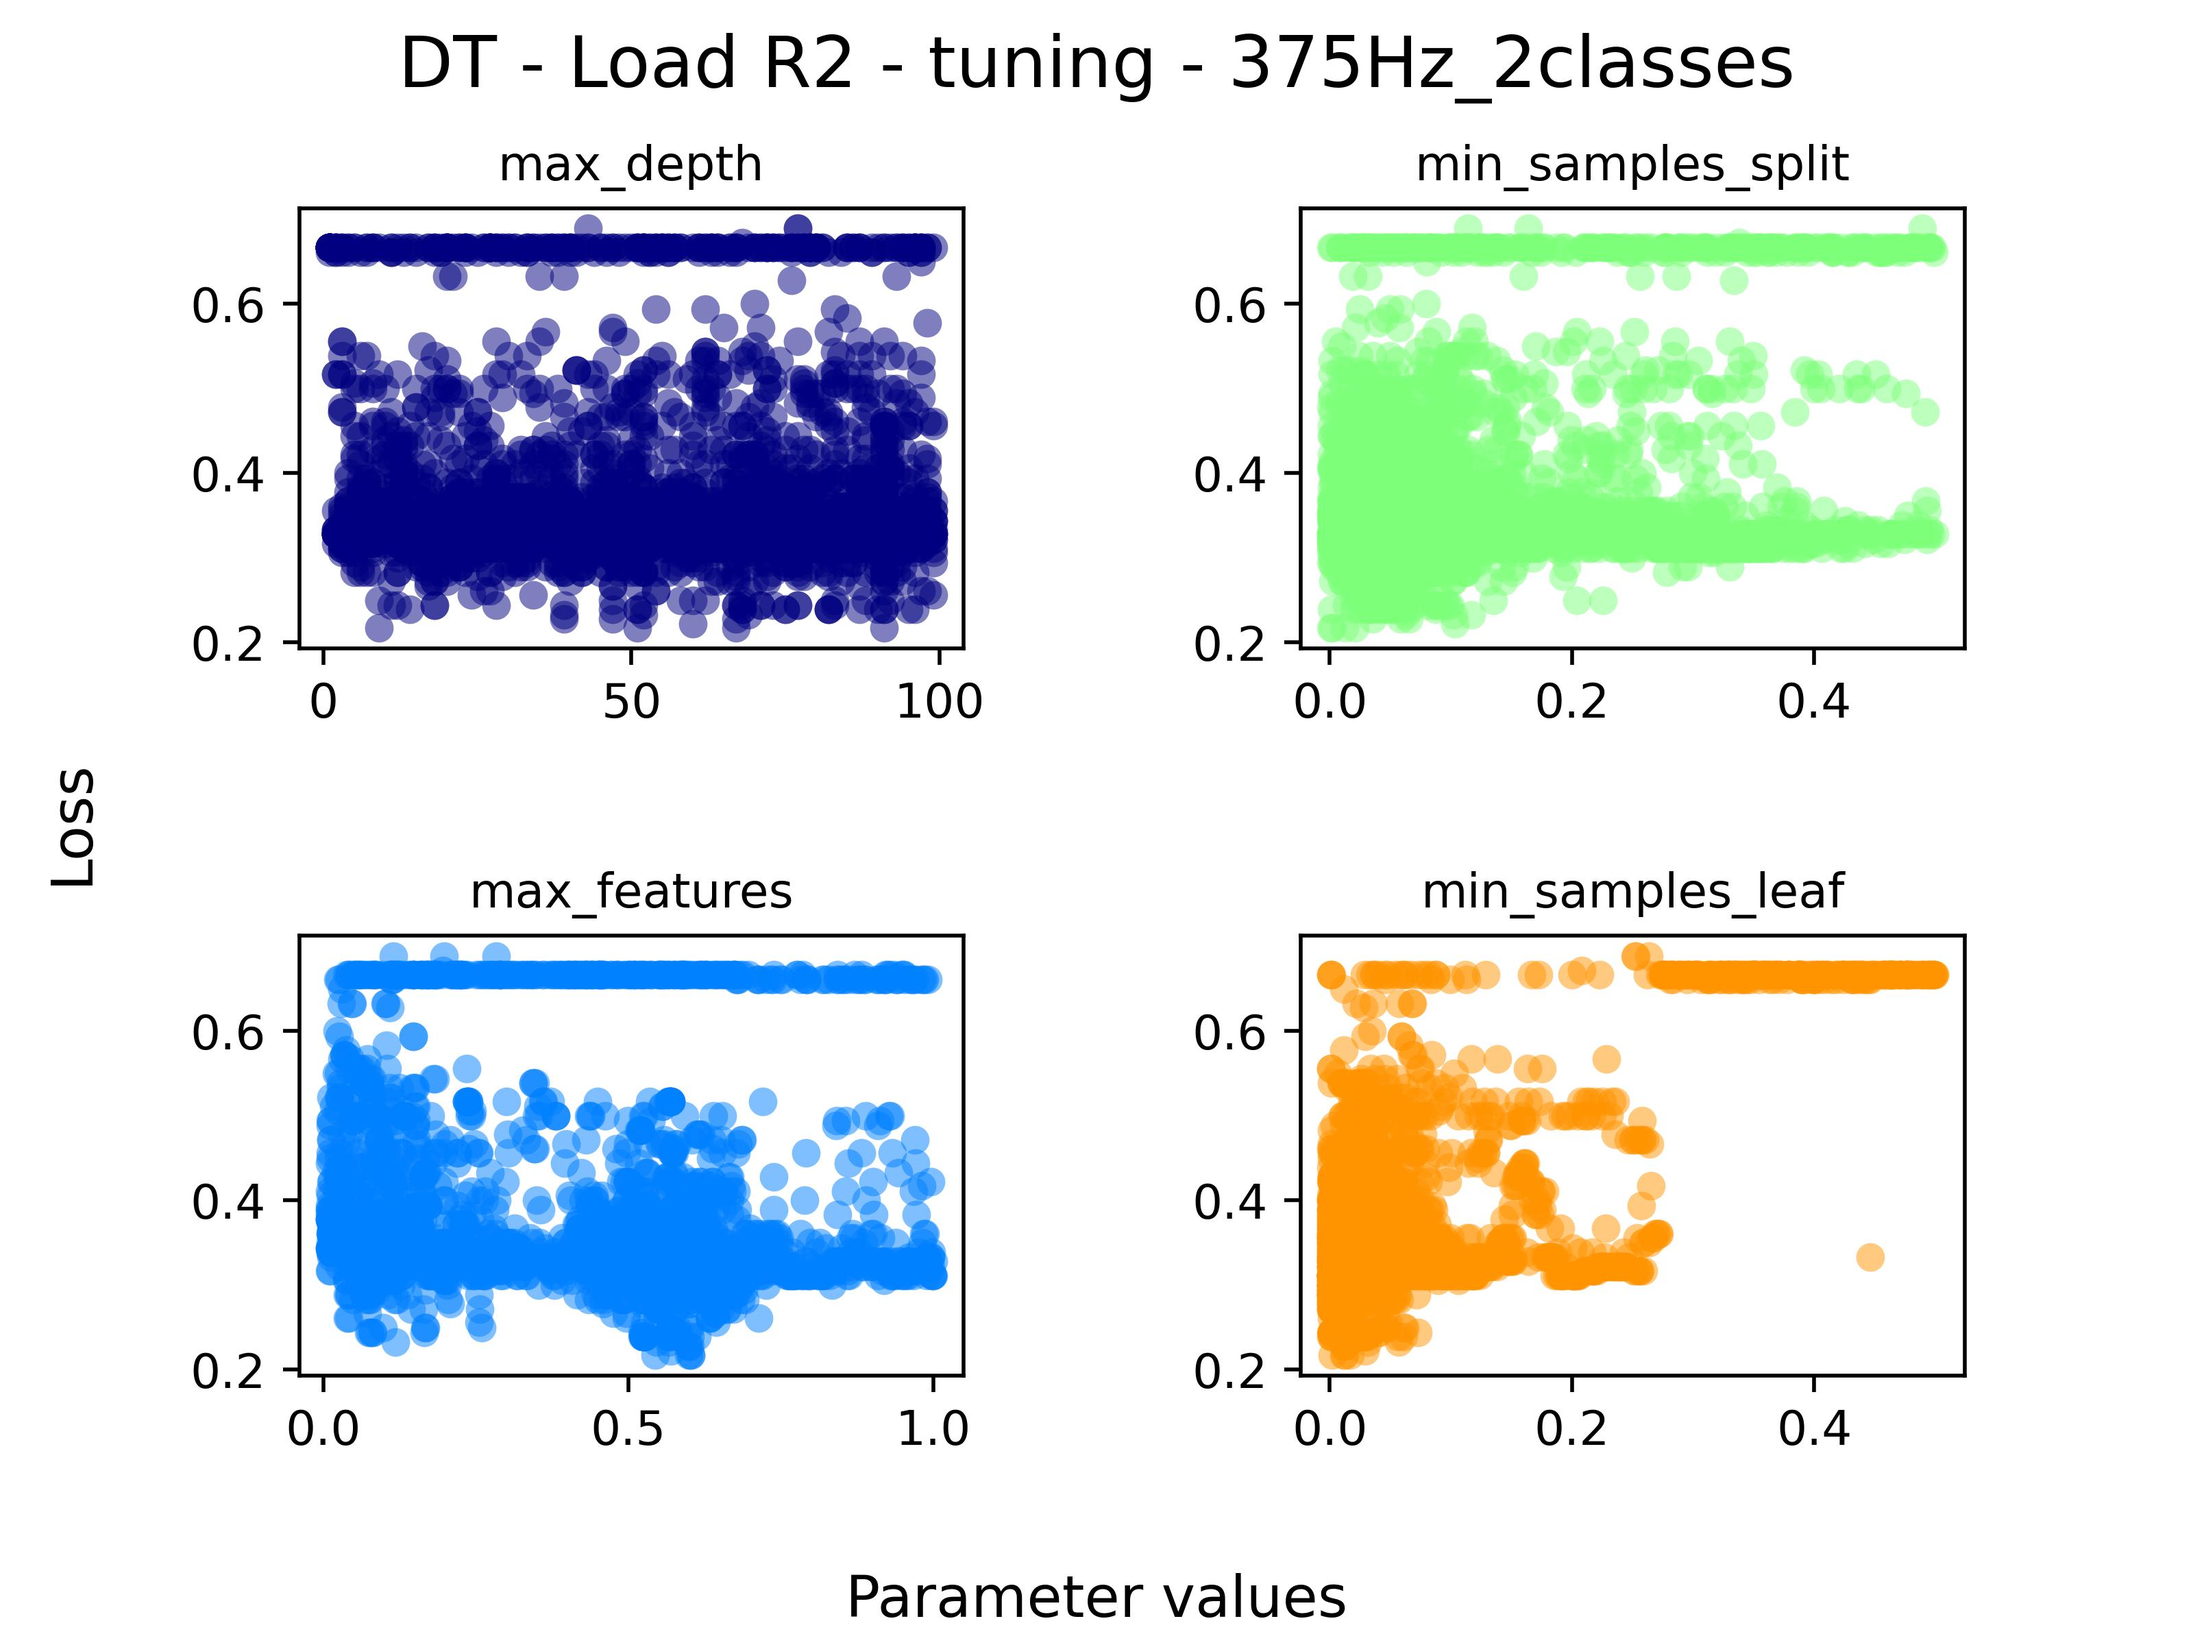
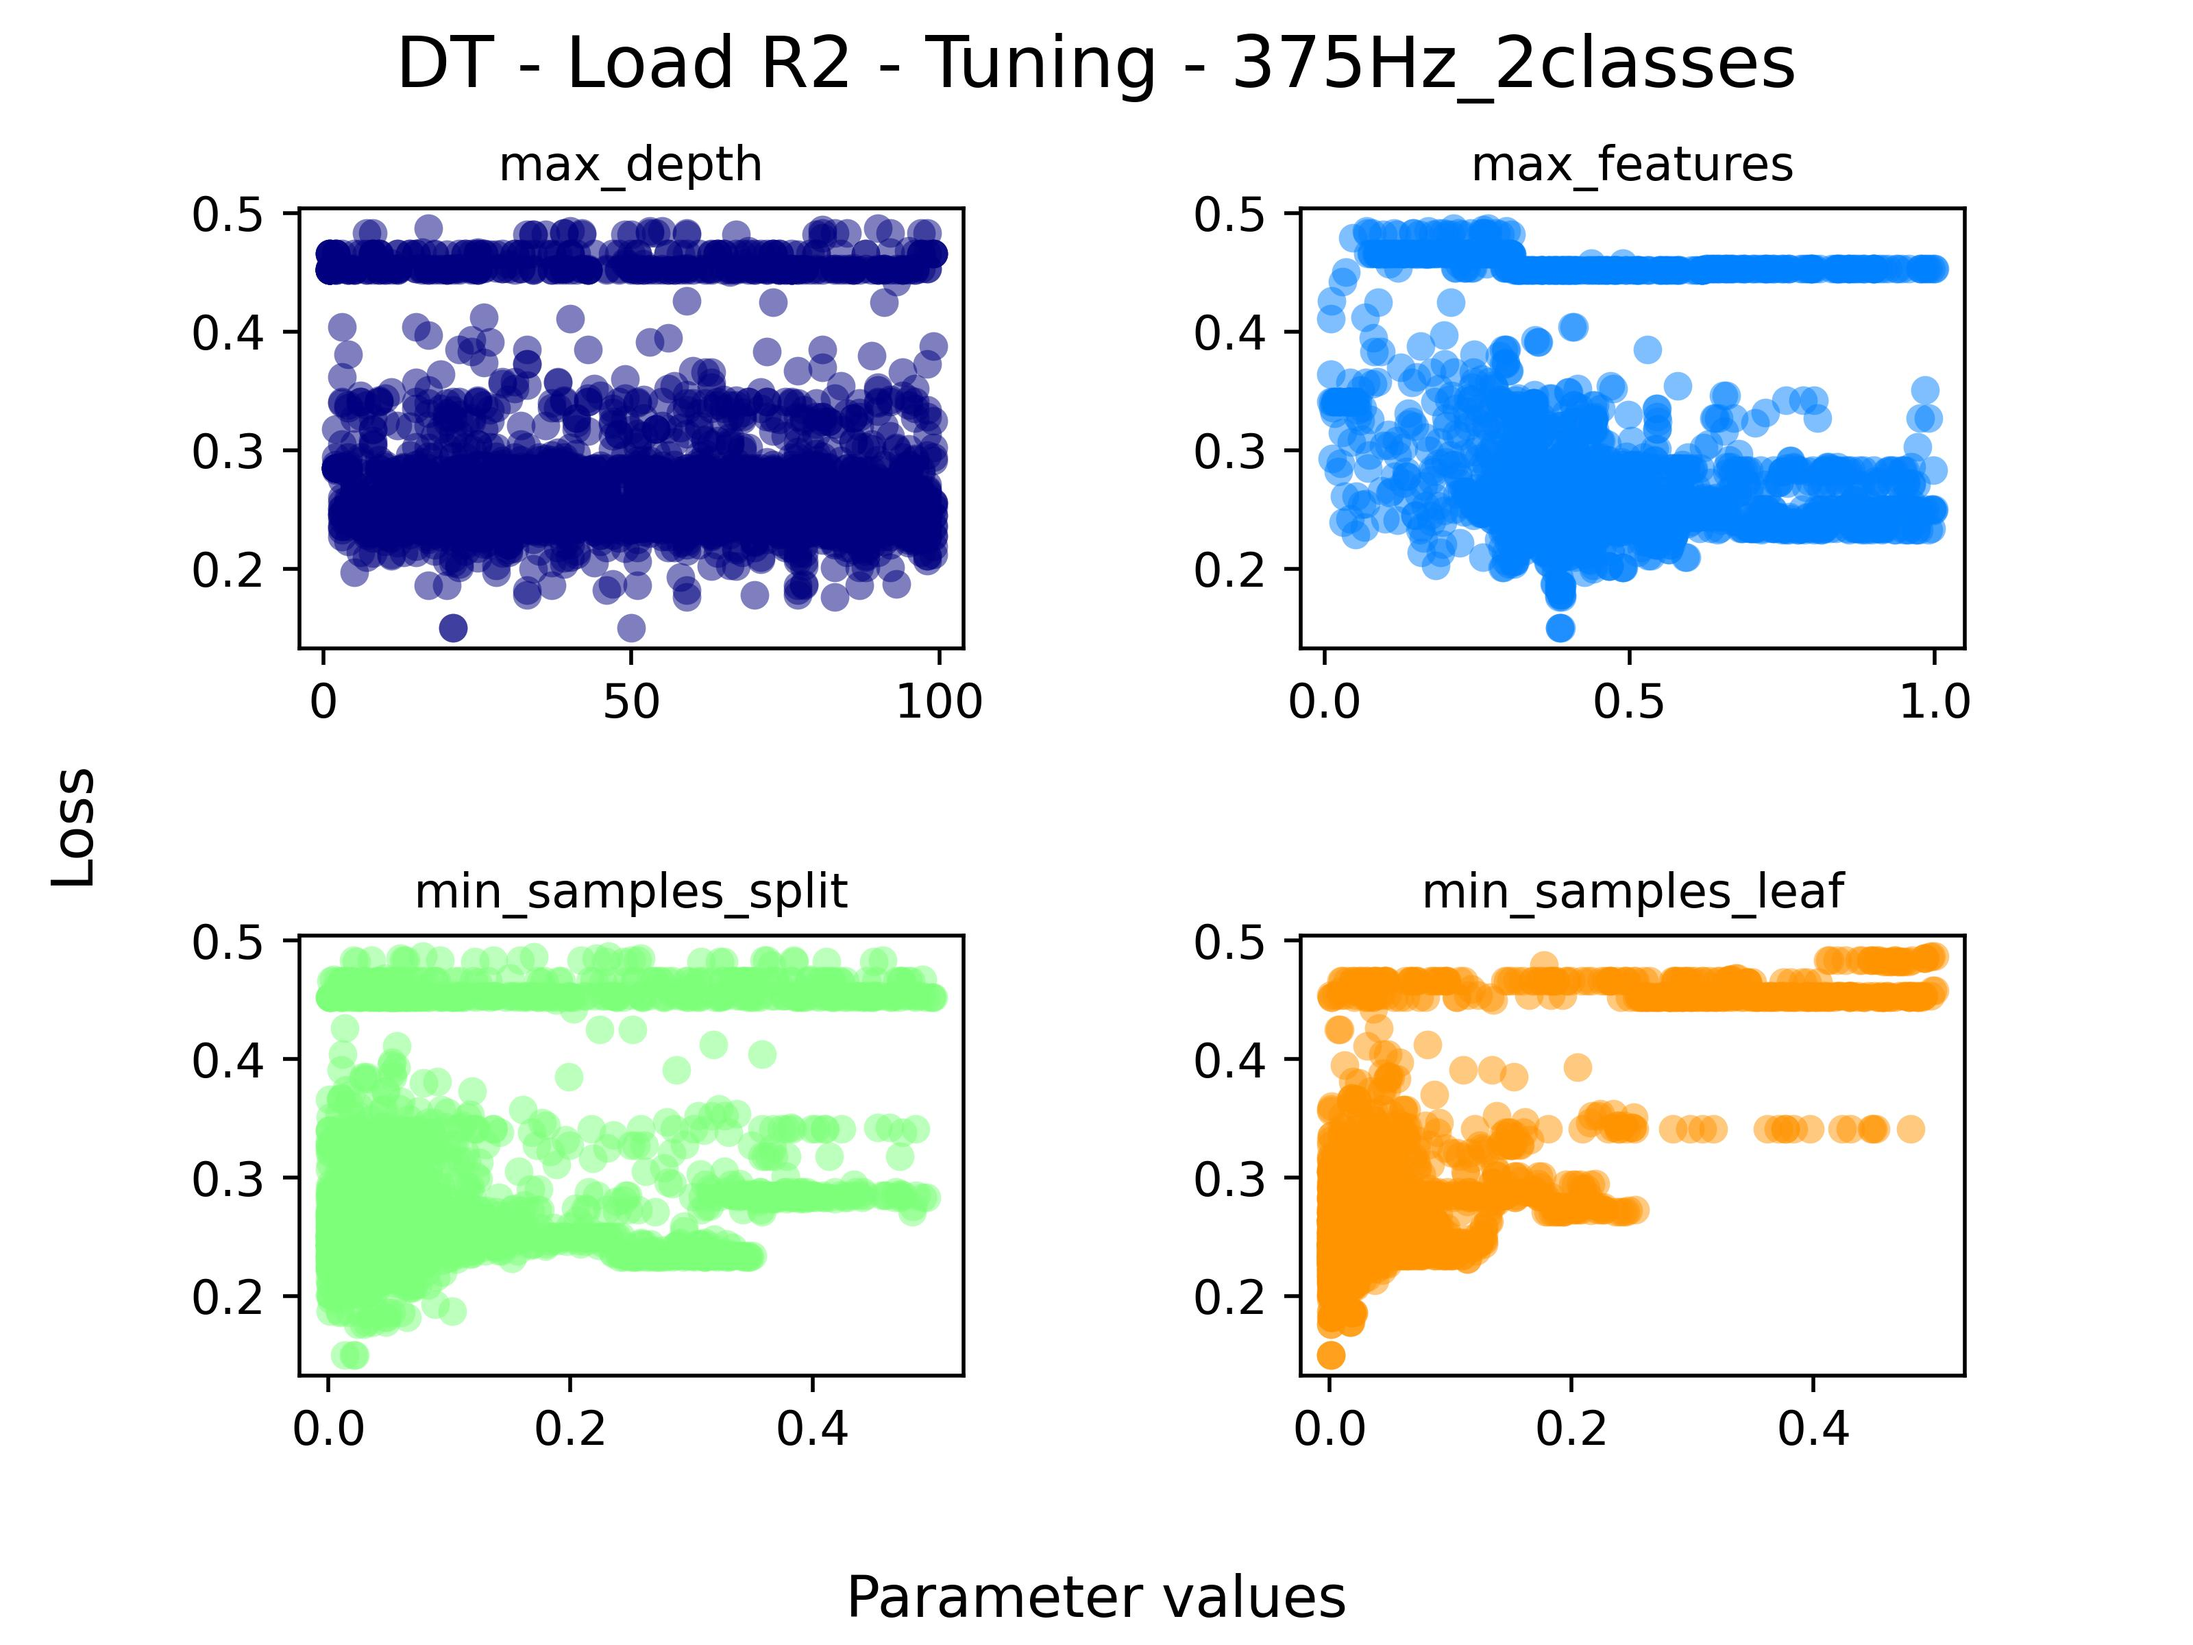
update

diff --git a/optimizers2.py b/optimizers2.py
@@ -1,0 +1,287 @@
+import glob
+import os
+import warnings
+import numpy as np
+import pandas as pd
+from hyperopt import hp, fmin, tpe, Trials, STATUS_OK
+from matplotlib import pyplot as plt
+from scipy.ndimage import gaussian_filter1d
+from sklearn import metrics
+from sklearn.linear_model import LogisticRegression
+from sklearn.metrics import confusion_matrix, ConfusionMatrixDisplay
+from sklearn.neighbors import KNeighborsClassifier
+from sklearn.tree import DecisionTreeClassifier, plot_tree
+import split_TEST
+import split_TRAIN
+import split_VALIDATION
+
+warnings.filterwarnings('ignore')
+
+gaus_filt_ord = 6
+max_evals = 500
+path_res = 'results'
+path_input = 'dataframes'
+os.makedirs(path_res, exist_ok=True)
+
+
+def f(params):
+    if alg == 'DT':
+        model = DecisionTreeClassifier(**params, random_state=0)
+    elif alg == 'KNN':
+        model = KNeighborsClassifier(**params)
+    elif alg == 'LR':
+        if n_classes > 2:
+            model = LogisticRegression(**params, multi_class='multinomial', random_state=0)
+        else:
+            model = LogisticRegression(**params, random_state=0)
+
+    model.fit(X_train, y_train)
+    y_pred_val = model.predict(X_val)
+    accuracy_val = metrics.accuracy_score(y_val, y_pred_val)
+    accuracies_val_opt.append(accuracy_val)
+
+    y_pred_train = model.predict(X_train)
+    accuracy_train = metrics.accuracy_score(y_train, y_pred_train)
+    accuracies_train_opt.append(accuracy_train)
+
+    y_pred_test = model.predict(X_test)
+    accuracy_test = metrics.accuracy_score(y_test, y_pred_test)
+    accuracies_test_opt.append(accuracy_test)
+
+    acc_returned = (((accuracy_val+accuracy_train)/2) + accuracy_test)/2
+
+    return {'loss': 1 - round(acc_returned, 3), 'status': STATUS_OK}
+
+algorithms = ['DT', 'KNN', 'LR']
+
+loads = ['R1', 'R2', 'R3',
+         'T1', 'T2', 'T3',
+         'R1_T1', 'R1_T2', 'R1_T3',
+         'R2_T1', 'R2_T2', 'R2_T3',
+         'R3_T1', 'R3_T2', 'R3_T3']
+
+params_space = [
+    {
+    'max_depth': hp.randint('max_depth', 1, 100),
+    'max_features': hp.uniform('max_features', 0.01, 1),
+    'min_samples_split': hp.uniform('min_samples_split', 0.001, 0.5),
+    'min_samples_leaf': hp.uniform('min_samples_leaf', 0.001, 0.5)
+    },{
+    'n_neighbors': hp.randint('n_neighbors', 1, 100),
+    'leaf_size': hp.randint('leaf_size', 3, 100),
+    'p': hp.randint('p', 1, 5)
+    }, {
+    'C': hp.loguniform('C',-10,1),
+    'tol': hp.loguniform('tol',-13,-1)
+    }
+]
+
+accuracies_val_opt = []
+accuracies_test_opt = []
+accuracies_train_opt = []
+
+for alg in algorithms[1:]:
+    path_alg = path_res + f'\\{alg}'
+    os.makedirs(path_alg, exist_ok=True)
+
+    for filename in glob.glob(f"{path_input}\*.pkl"):
+        with open(os.path.join(os.getcwd(), filename), "r") as file:
+
+            df_in = pd.read_pickle(filename)
+            df_in.columns = df_in.columns.str.replace(' ', '')
+
+            if alg == 'DT':
+                table_out = pd.DataFrame([['', '', '', '', '']], columns=['name', 'acc_train', 'acc_test', 'hyperparameters', 'features_importance'])
+            else:
+                table_out = pd.DataFrame([['', '', '', '']], columns=['name', 'acc_train', 'acc_test', 'hyperparameters'])
+
+            filename = filename.replace(f'{path_input}\\', '')
+            filename = filename.replace('.pkl', '')
+            path_alg_singleDf = path_alg + '\\' + filename
+            os.makedirs(path_alg_singleDf, exist_ok=True)
+
+            n_classes = len(df_in['D_class'].unique())
+            if n_classes == 2:
+                class_names = ['healthy', 'damaged']
+            elif n_classes == 3:
+                class_names = ['healthy', 'outer', 'brinn']
+
+            mean_train_accuracy = 0
+            mean_test_accuracy = 0
+
+            for load in loads:
+                print(f'\n *** {alg} - {filename} - {load} ***')
+                par1_test = load
+                par2_test = load
+
+                dataTrainVal = split_TRAIN.TRAIN(df_in, par1_test, par2_test)
+                dataset_validation, dataset_train = split_VALIDATION.setVal(dataTrainVal, val_size=0.2)
+                dataset_test = split_TEST.TEST(df_in, par1_test, par2_test)
+
+                feature_names = df_in.columns.to_list()[1:len(df_in.columns)-1] # first element is the name, the last is 'D'
+
+                X_val = dataset_validation[feature_names]
+                y_val = dataset_validation['D_class']
+
+                X_train = dataset_train[feature_names]
+                y_train = dataset_train['D_class']
+
+                X_test = dataset_test[feature_names]
+                y_test = dataset_test['D_class']
+
+                trials = Trials()
+                best = fmin(f, params_space[algorithms.index(alg)], algo=tpe.suggest, max_evals=max_evals,
+                            trials=trials, loss_threshold=0.01, max_queue_len=int(max_evals/5))
+
+                fig = plt.figure(dpi=500)
+                path_alg_singleDf_OptGraph = path_alg_singleDf + '\\Optimization Graphs'
+                os.makedirs(path_alg_singleDf_OptGraph, exist_ok=True)
+                fig.suptitle(f'{alg} - Optimization - Load {load} - {filename}')
+                interval_size = int(max_evals/6)
+                labels_plot_opt = ['test', 'val', 'train']
+                c = ['blue', 'orange', 'green']
+                series_opt = [accuracies_test_opt, accuracies_val_opt, accuracies_train_opt]
+                for serie_opt in series_opt:
+                    values_series = []
+                    indices_series = []
+                    for i in range(0, len(accuracies_test_opt), interval_size):
+                        interval = serie_opt[i:i + interval_size]
+                        max_val = max(interval)
+                        min_val = min(interval)
+
+                        max_val_index = i + interval.index(max_val)
+                        min_val_index = i + interval.index(min_val)
+
+                        if max_val_index >= min_val_index:
+                            indices_series.append(min_val_index)
+                            values_series.append(min_val)
+                            indices_series.append(max_val_index)
+                            values_series.append(max_val)
+                        else:
+                            indices_series.append(max_val_index)
+                            values_series.append(max_val)
+                            indices_series.append(min_val_index)
+                            values_series.append(min_val)
+
+                    plt.plot(indices_series, values_series, label= f'{labels_plot_opt[series_opt.index(serie_opt)]}')
+
+                plt.legend(loc='best')
+                plt.xlabel('Hyperopt iterations')
+                plt.ylabel('Accuracy')
+                plt.savefig(f'{path_alg_singleDf_OptGraph}\\OptGraph_{load}_{filename}.jpg')
+
+                print(best)
+
+                if alg == 'DT':
+                    clf = DecisionTreeClassifier(**best, random_state=0)
+                elif alg == 'KNN':
+                    clf = KNeighborsClassifier(**best)
+                if alg == 'LR':
+                    if n_classes > 2:
+                        clf = LogisticRegression(**best, multi_class='multinomial', random_state=0)
+                    else:
+                        clf = LogisticRegression(**best, random_state=0)
+
+                clf.fit(X_train, y_train)
+                p_train = clf.predict(X_train)
+                p_test = clf.predict(X_test)
+
+                acc_train = metrics.accuracy_score(y_train, p_train)
+                mean_train_accuracy += acc_train
+                acc_test = metrics.accuracy_score(y_test, p_test)
+                mean_test_accuracy += acc_test
+
+                print('Train accuracy: ', round(acc_train * 100, 2), ' %')
+                print('Test accuracy: ', round(acc_test * 100, 2), ' %')
+
+                " **************************************************************************************************** "
+                fig = plt.figure(dpi=500)
+                cm = confusion_matrix(y_test, p_test)
+                cm_display = ConfusionMatrixDisplay(cm).plot()
+                plt.title(f'{alg} - Confusion Matrix - Load {load} - {filename}')
+                plt.ylabel('True Labels')
+                plt.xlabel('Predicted Labels')
+                path_alg_singleDf_confMatr = path_alg_singleDf + '\\Confusion Matrices'
+                os.makedirs(path_alg_singleDf_confMatr, exist_ok=True)
+                plt.savefig(f'{path_alg_singleDf_confMatr}\\ConfMat_{load}_{filename}.jpg')
+
+                if alg == 'DT':
+                    fig = plt.figure(dpi=500)
+                    plot_tree(clf, filled=True, feature_names=dataset_test.columns.to_list(), class_names=class_names)
+                    plt.title(f"{alg} - Load {load} - {filename} - Accuracy: {round(acc_test * 100, 2)} %")
+                    path_alg_singleDf_plotsTree = path_alg_singleDf + '\\PlotsTree'
+                    os.makedirs(path_alg_singleDf_plotsTree, exist_ok=True)
+                    plt.savefig(f'{path_alg_singleDf_plotsTree}\\PlotTree_{load}_{filename}.jpg')
+
+                    vet_val_feat_imp, vet_names_feat_imp = [], []
+                    path_alg_singleDf_FeatImp = path_alg_singleDf + '\\Features Importance'
+                    os.makedirs(path_alg_singleDf_FeatImp, exist_ok=True)
+                    for feat_num in range(len(clf.feature_importances_)):
+                        if clf.feature_importances_[feat_num] > 0:
+                            vet_val_feat_imp.append(clf.feature_importances_[feat_num])
+                            vet_names_feat_imp.append(feature_names[feat_num - 1])
+
+                    dict_feat_imp = dict(zip(vet_names_feat_imp, vet_val_feat_imp))
+
+                    fig = plt.figure(dpi=500)
+                    plt.bar(vet_names_feat_imp, vet_val_feat_imp)
+                    plt.title(f'{alg} - Load {load} - {filename} - Features Importance')
+                    plt.xticks(rotation=90)
+                    plt.subplots_adjust(bottom=0.3,
+                                        top=0.9,
+                                        wspace=0.5,
+                                        hspace=0.35)
+                    plt.savefig(f'{path_alg_singleDf_FeatImp}\\FeatImp_{load}_{filename}.jpg')
+                    # plt.show()
+
+                parameters = list(params_space[algorithms.index(alg)].keys())
+                if len(parameters) > 3:
+                    n_rows = int(len(parameters) / 2)
+                    n_cols = len(parameters) - n_rows
+                    row_plot, col_plot = 0, 0
+                    fig, axes = plt.subplots(nrows=n_rows, ncols=n_cols, dpi=500)
+                else:
+                    col_plot = 0
+                    fig, axes = plt.subplots(nrows=1, ncols=len(parameters), dpi=500)
+
+                fig.tight_layout(pad=4)
+                fig.suptitle(f'{alg} - Load {load} - Tuning - {filename}', fontsize=15)
+                cmap = plt.cm.jet
+                for i, val in enumerate(parameters):
+                    xs = np.array([t['misc']['vals'][val] for t in trials.trials]).ravel()
+                    ys = [t['result']['loss'] for t in trials.trials]
+                    xs, ys = zip(*sorted(zip(xs, ys)))
+                    ys = np.array(ys)
+
+                    if len(parameters) > 3:
+                        axes[row_plot, col_plot].scatter(xs, ys, linewidth=0.01, alpha=0.5, c=cmap(float(i)/len(parameters)))
+                        axes[row_plot, col_plot].set_title(val, fontsize=10)
+
+                        if col_plot+1 == n_cols:
+                            col_plot = 0
+                            row_plot += 1
+                        else:
+                            col_plot += 1
+                    else:
+                        axes[col_plot].scatter(xs, ys, linewidth=0.01, alpha=0.5, c=cmap(float(i)/len(parameters)))
+                        axes[col_plot].set_title(val, fontsize=10)
+
+                        col_plot += 1
+
+                fig.supxlabel('Parameter values')
+                fig.supylabel('Loss')
+                path_alg_singleDf_Hypers = path_alg_singleDf + '\\Hyper Parameters Tuning'
+                os.makedirs(path_alg_singleDf_Hypers, exist_ok=True)
+                plt.savefig(f'{path_alg_singleDf_Hypers}\\HyperPars_{load}_{filename}.jpg')
+
+                if alg == 'DT':
+                    table_out.loc[loads.index(load)] = load, round(acc_train, 2), round(acc_test, 2), best, dict_feat_imp
+                else:
+                    table_out.loc[loads.index(load)] = load, round(acc_train, 2), round(acc_test, 2), best
+
+                # plt.show()
+
+            print('\nMean train accuracy: ', round(mean_train_accuracy * 100 / len(loads), 2), ' %')
+            print('\nMean test accuracy: ', round(mean_test_accuracy * 100 / len(loads), 2), ' %')
+            table_out.to_excel(f'{path_alg_singleDf}\\res_hyperopt.xlsx')
+            table_out.to_pickle(f'{path_alg_singleDf}\\res_hyperopt.pkl')
